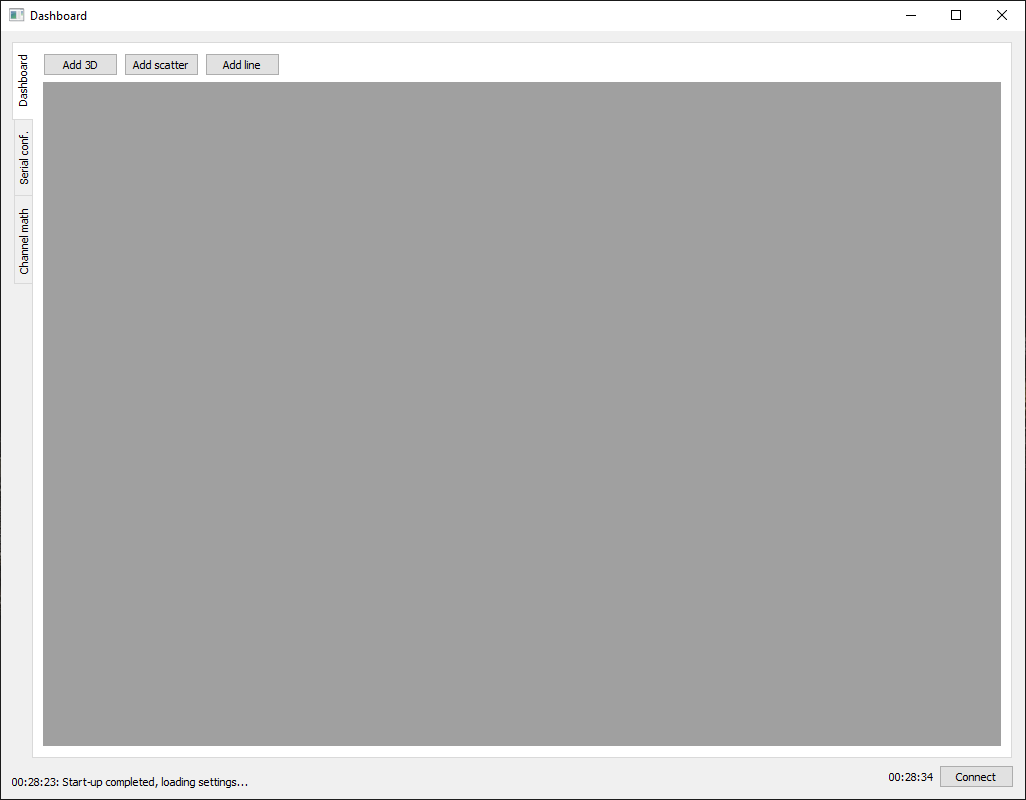
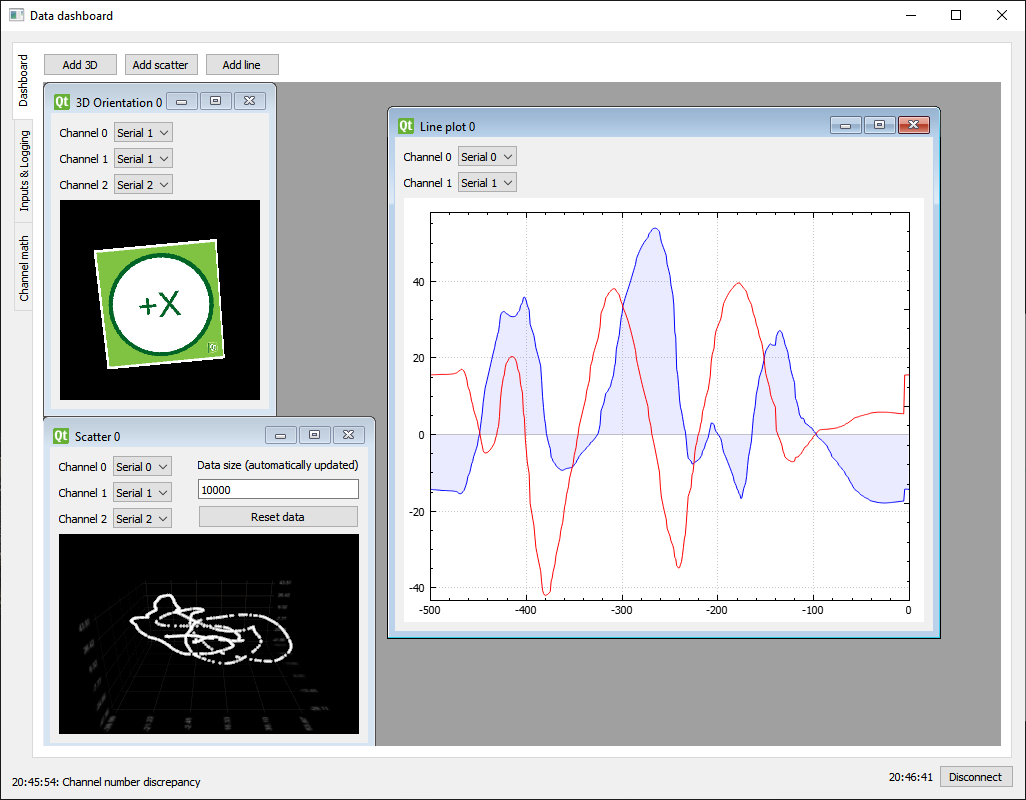
Update doc&readme with new features and screenshots

diff --git a/README.md b/README.md
@@ -5,16 +5,24 @@ Data dashboard
 Data dashboard is a program based on QT framework that can be used to to visualize some of the common data types that one comes in contact when working with sensors. Although it was developed as during my work with IMU, and is mostly centered around it, it should be versatile enough for other sensors and purposes as well.
 
 It's currently a work in progress, but once completed it should to be able to:
-* Read data from serial port and or network socket (real input channel)
-* Define data frame (specify start/end of frame character, as well as data separator char)
-* Perform basic math (addition, subtraction, abs value) on multiple input channels and visualize result of the operations (virtual input channels)
-* Log input channels into a file
-* Visualize 3D orientation by taking either euler angles or quaternion as input
-* Visualize linear data series (flexible number of input channels)
-* Plot data in 3D scatter plot (or 2D by specifying one of the inputs as 0)
-* Create dashboard consisting of any combination of the visualizations above on runtime
+  - [x]  Read data from serial port (real input channel)
+  - [ ]  Read data from network socket (real input channel)
+  - [ ]  Define data frame (specify start/end of frame character, as well as data separator char)
+  - [x]  Perform basic math (addition, subtraction, abs value) on multiple input channels and visualize result of the operations (virtual input channels)
+  - [x]  Log input channels into a file
+  - [ ]  Visualize 3D orientation by taking either euler angles or quaternion as input
+  - [ ]  Visualize linear data series (flexible number of input channels)
+  - [x]  Plot data in 3D scatter plot (or 2D by specifying one of the inputs as 0)
+  - [x]  Create dashboard consisting of any combination of the visualizations above on runtime
+
 
 ## Demo of current progress
 /doc folder contains some of the screen shoot and a demo video below
+
+![Alt text](doc/dashboard.PNG?raw=true "Dashboard")
+
+![Alt text](doc/serial.PNG?raw=true "Channels & logging")
+
+![Alt text](doc/math.PNG?raw=true "Channel math")
 
 https://vedran.ml/public/projects/datadashboard/demo.mp4
